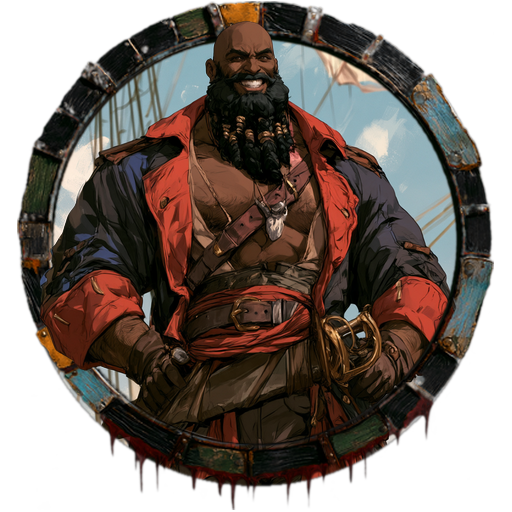
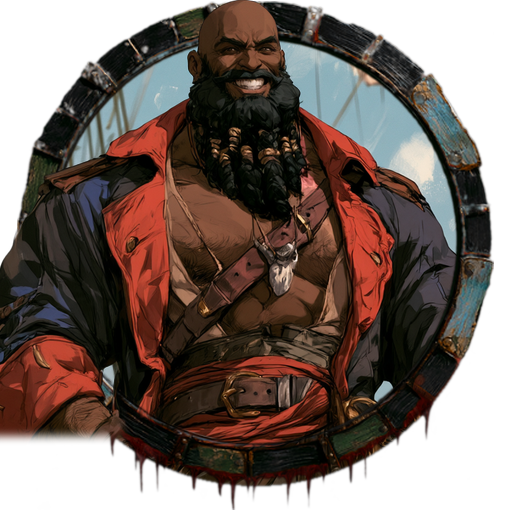
bake_token: --zoom and --dy; Ninehulls' token zoomed so his head goes over the ring

diff --git a/tools/foundryExport/bake_token.py b/tools/foundryExport/bake_token.py
@@ -95,8 +95,20 @@ def prep(frame_in, out, hue=None, hue_tol=26, sat_min=55, feather=1.5, despill=T
     return out, hue
 
 
+def _framed(path, size, zoom=1.0, dy=0.0):
+    """The image square-cropped to the token, zoomed about its centre and moved
+    down by dy (a fraction of the token; negative moves it up)."""
+    im = _crop_square(Image.open(path).convert("RGBA"))
+    big = round(size * zoom)
+    im = im.resize((big, big), Image.LANCZOS)
+    out = Image.new("RGBA", (size, size), (0, 0, 0, 0))
+    off = (size - big) // 2
+    out.paste(im, (off, off + round(dy * size)))
+    return out
+
+
 def bake(portrait, frame, out, size=512, inner=0.84, feather=1.0, frame_mode="auto",
-         cutout=None, pop=()):
+         cutout=None, pop=(), zoom=1.0, dy=0.0):
     """Circle-crop portrait; layer frame (transparent -> exact; opaque -> annulus).
 
     Pop-out: `cutout` is the same portrait with its background removed (same
@@ -104,7 +116,7 @@ def bake(portrait, frame, out, size=512, inner=0.84, feather=1.0, frame_mode="au
     fractions of the token) lays the cut-out's figure back OVER the frame
     there, so a head or an arm breaks the border."""
     canvas = Image.new("RGBA", (size, size), (0, 0, 0, 0))
-    p = _crop_square(Image.open(portrait).convert("RGBA")).resize((size, size), Image.LANCZOS)
+    p = _framed(portrait, size, zoom, dy)
     # Portrait sits inside the ring (0.96 radius) so the band always overlaps its
     # rim and the art never spills past the frame. A frame with ornaments above or
     # below the ring (a badge on top, drips under it) is taller than it is wide;
@@ -138,7 +150,7 @@ def bake(portrait, frame, out, size=512, inner=0.84, feather=1.0, frame_mode="au
             ring.paste(f, (0, 0), _annulus_mask(size, inner, feather))
             canvas = Image.alpha_composite(canvas, ring)
     if cutout and pop:
-        c = _crop_square(Image.open(cutout).convert("RGBA")).resize((size, size), Image.LANCZOS)
+        c = _framed(cutout, size, zoom, dy)
         box = Image.new("L", (size, size), 0)
         d = ImageDraw.Draw(box)
         for x0, y0, x1, y1 in pop:
@@ -184,6 +196,8 @@ def main():
     b.add_argument("--inner", type=float, default=0.84, help="(annulus mode) portrait circle as fraction of radius.")
     b.add_argument("--feather", type=float, default=1.0)
     b.add_argument("--frame-mode", default="auto", choices=["auto", "alpha", "annulus"])
+    b.add_argument("--zoom", type=float, default=1.0, help="Zoom the portrait (and cut-out) about its centre.")
+    b.add_argument("--dy", type=float, default=0.0, help="Move the portrait down by this fraction of the token (negative: up).")
     b.add_argument("--cutout", help="The portrait with its background removed (same framing), for --pop.")
     b.add_argument("--pop", action="append", default=[], metavar="X0,Y0,X1,Y1",
                    help="A box (fractions of the token) where the cut-out figure is laid over the frame. Repeatable.")
@@ -206,7 +220,7 @@ def main():
     elif a.cmd == "bake":
         pop = [tuple(float(v) for v in p.split(",")) for p in a.pop]
         print(bake(a.portrait, a.frame, a.out, a.size, a.inner, a.feather, a.frame_mode,
-                   cutout=a.cutout, pop=pop))
+                   cutout=a.cutout, pop=pop, zoom=a.zoom, dy=a.dy))
     else:
         fmap = json.load(open(a.map, encoding="utf-8-sig")) if a.map else {}
         exts = (".webp", ".png", ".jpg", ".jpeg")

diff --git a/tools/foundryExport/README.md b/tools/foundryExport/README.md
@@ -208,7 +208,7 @@ per-faction / special-monster borders, bake a frame into the token image:
 4. **Pop-out (optional).** For a head or an arm that breaks the border, cut the portrait's figure out of its background, then name the boxes (fractions of the token) where the figure goes back over the ring:
    `uvx --python 3.12 --from "rembg[cpu,cli]" rembg i -m birefnet-portrait <portrait>.png <slug>-cutout.png` (Python 3.12 through `uvx`, since rembg has no wheels for the system Python; the model downloads once, about 1 GB, into `~/.rembg/`), then
    `python bake_token.py bake --portrait <portrait>.png --frame <frame>.cut.png --cutout <slug>-cutout.png --pop 0.36,0,0.64,0.16 --pop 0,0.38,0.22,0.78 --out <campaign>/assets/tokens/<slug>.png`
-   (here: Ninehulls' head at the top and his right arm on the left). Keep the cut-out beside the portrait as `<slug>-cutout.png`.
+   (here: Ninehulls' head at the top and his right arm on the left). Keep the cut-out beside the portrait as `<slug>-cutout.png`. `--zoom` and `--dy` move portrait and cut-out together, to push the figure further over the ring: Ninehulls' token is `--zoom 1.35 --dy 0.12 --pop 0.3,0,0.7,0.2 --pop 0,0.3,0.24,0.85`, his head over the top of the ring.
 5. **Use it.** Upload the `<campaign>/assets/tokens/` dir (upload_foundry.py), then assign with the
    token-only / ring-off flags (keeps the un-framed portrait as the actor `img`,
    no doubled ring):
